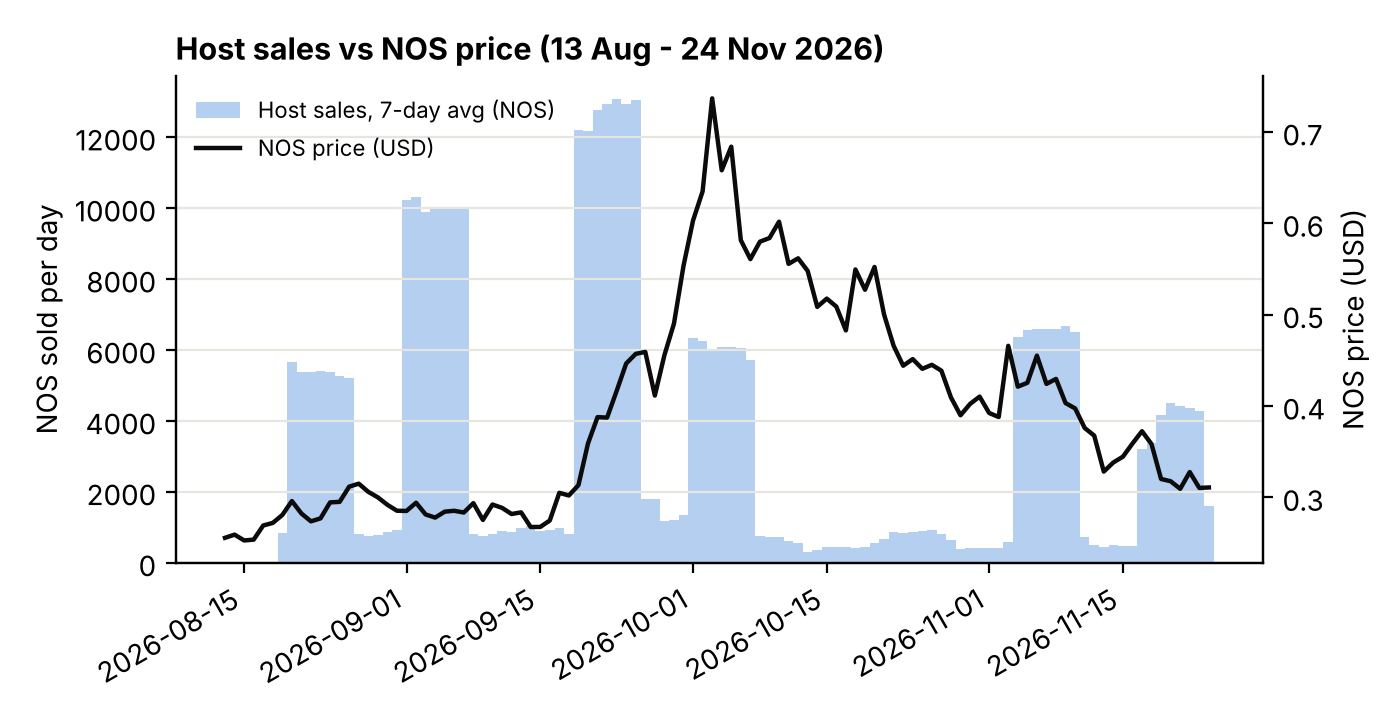
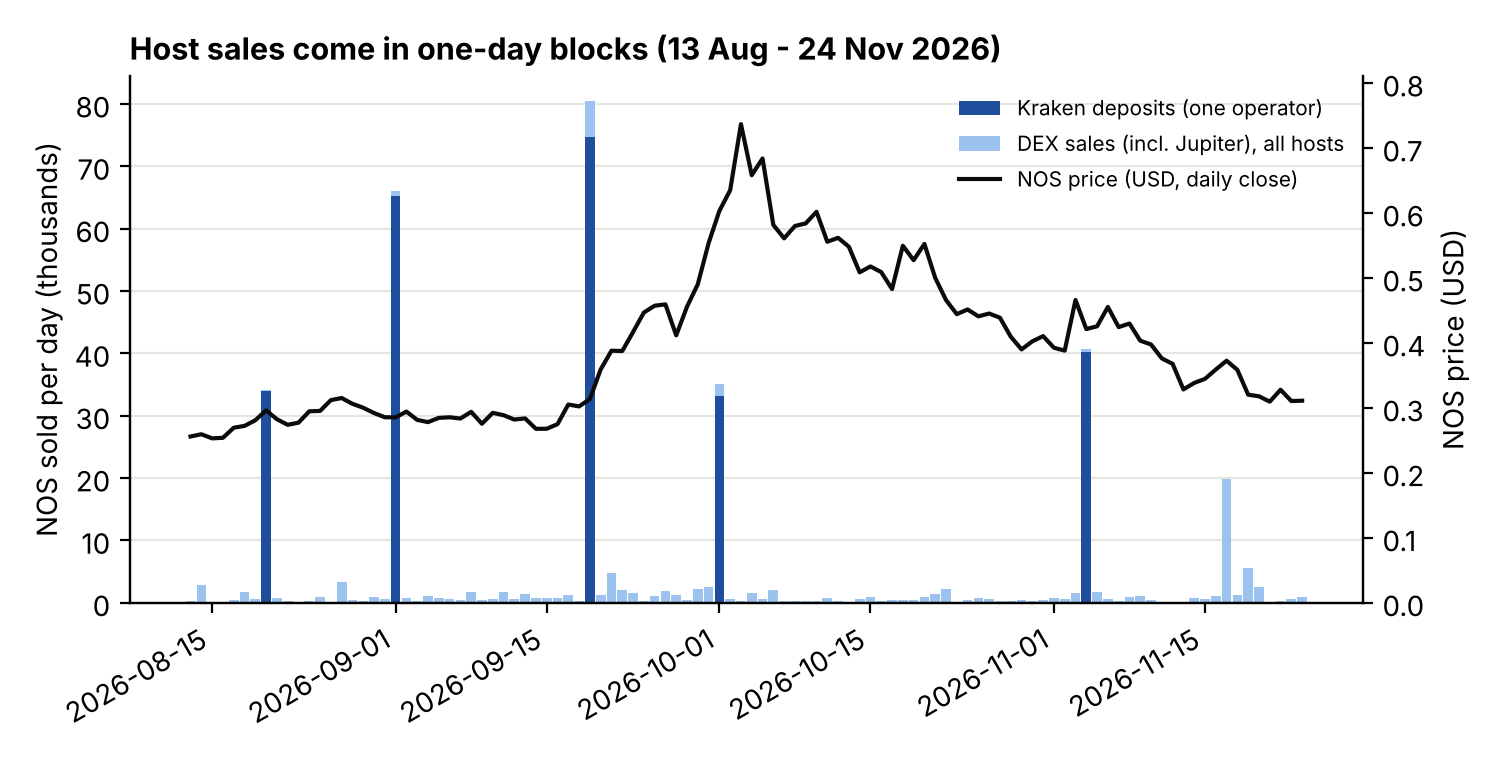
fix chart: daily stacked bars instead of 7-day mean

diff --git a/price_sensitivity.py b/price_sensitivity.py
@@ -56,6 +56,7 @@ days = pd.date_range(rec.day.min(), END)
 df = pd.DataFrame(index=days)
 df["payouts"] = rec.groupby("day").received.sum().reindex(days).fillna(0)
 df["sold"] = snt.groupby("day").sent.sum().reindex(days).fillna(0)
+df["sold_kraken"] = snt[snt.category == "cex"].groupby("day").sent.sum().reindex(days).fillna(0)
 df["sold_big"] = snt[snt.host.isin(big)].groupby("day").sent.sum().reindex(days).fillna(0)
 df["sold_small"] = snt[~snt.host.isin(big)].groupby("day").sent.sum().reindex(days).fillna(0)
 df["pay_big"] = rec[rec.host.isin(big)].groupby("day").received.sum().reindex(days).fillna(0)
@@ -153,20 +154,25 @@ pd.DataFrame(rows).to_csv(OUT / "price_sensitivity.csv", index=False)
 df.to_csv(OUT / "daily_panel.csv", index_label="day")
 
 # ---------- chart ----------
-BLUE, GRAY, GRID = "#2a78d6", "#8a8984", "#e6e5e0"
-fig, ax = plt.subplots(figsize=(7, 3.6), dpi=200)
-ax.bar(df.index, df.sold.rolling(7).mean(), color=BLUE, alpha=0.35, width=1, label="Host sales, 7-day avg (NOS)")
-ax.set_ylabel("NOS sold per day")
+# Daily bars, not a rolling mean: sales come in one-day blocks, smoothing would spread them over a week
+DARK, LIGHT, GRID = "#1f4e9c", "#9cc3ee", "#e6e5e0"
+other = df.sold - df.sold_kraken
+fig, ax = plt.subplots(figsize=(7.5, 3.8), dpi=200)
+ax.bar(df.index, df.sold_kraken / 1e3, color=DARK, width=0.9, label="Kraken deposits (one operator)")
+ax.bar(df.index, other / 1e3, bottom=df.sold_kraken / 1e3, color=LIGHT, width=0.9, label="DEX sales (incl. Jupiter), all hosts")
+ax.set_ylabel("NOS sold per day (thousands)")
 ax2 = ax.twinx()
-ax2.plot(df.index, df.price, color="#0b0b0b", linewidth=1.6, label="NOS price (USD)")
+ax2.plot(df.index, df.price, color="#0b0b0b", linewidth=1.5, label="NOS price (USD, daily close)")
 ax2.set_ylabel("NOS price (USD)")
-ax.set_title("Host sales vs NOS price (13 Aug - 24 Nov 2026)", loc="left", fontsize=11, fontweight="bold")
-for a in (ax, ax2):
-    a.spines["top"].set_visible(False)
+ax2.set_ylim(0, df.price.max() * 1.1)
+ax.set_title("Host sales come in one-day blocks (13 Aug - 24 Nov 2026)", loc="left", fontsize=11, fontweight="bold")
+for a_ in (ax, ax2):
+    a_.spines["top"].set_visible(False)
 ax.grid(axis="y", color=GRID)
+ax.set_axisbelow(True)
 h1, l1 = ax.get_legend_handles_labels()
 h2, l2 = ax2.get_legend_handles_labels()
-ax.legend(h1 + h2, l1 + l2, loc="upper left", fontsize=8, frameon=False)
+ax.legend(h1 + h2, l1 + l2, loc="upper right", fontsize=7.5, frameon=False)
 fig.autofmt_xdate()
 fig.tight_layout()
 fig.savefig(OUT / "price_vs_sales.png")
